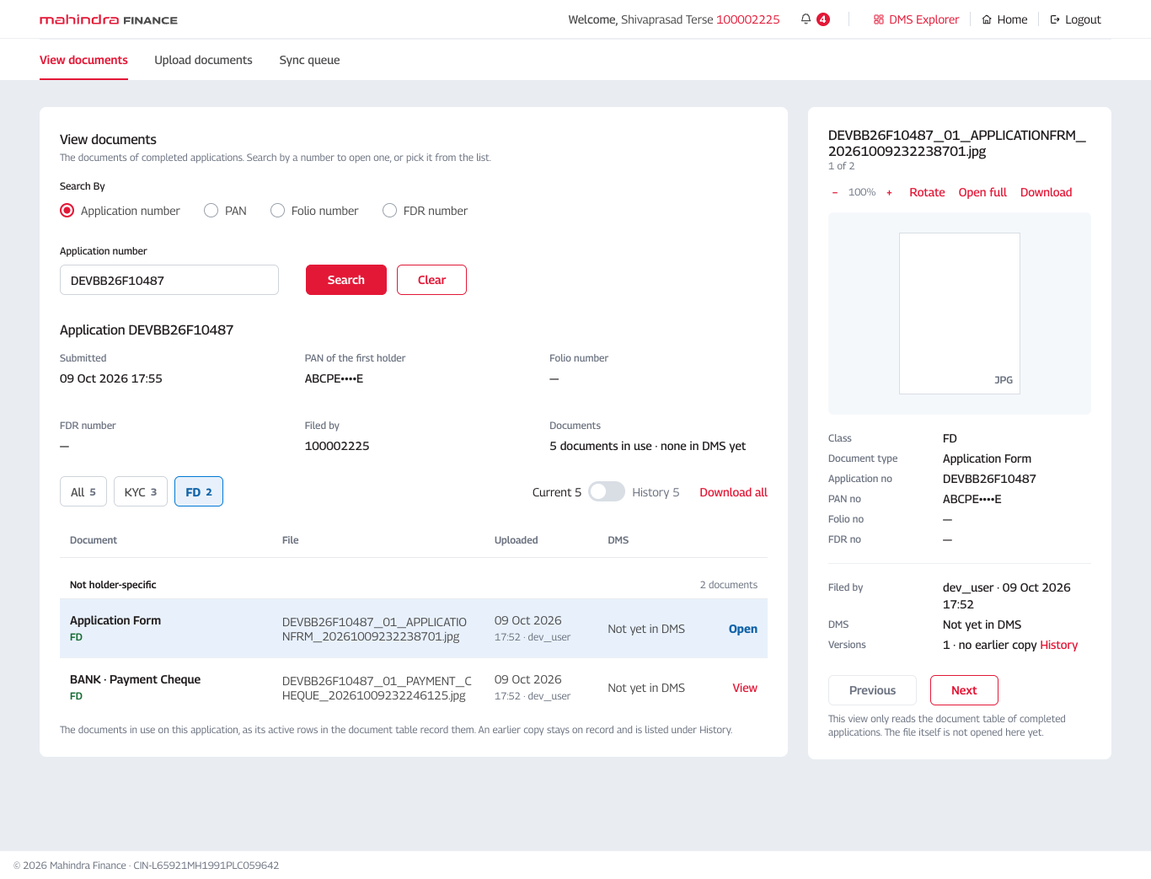
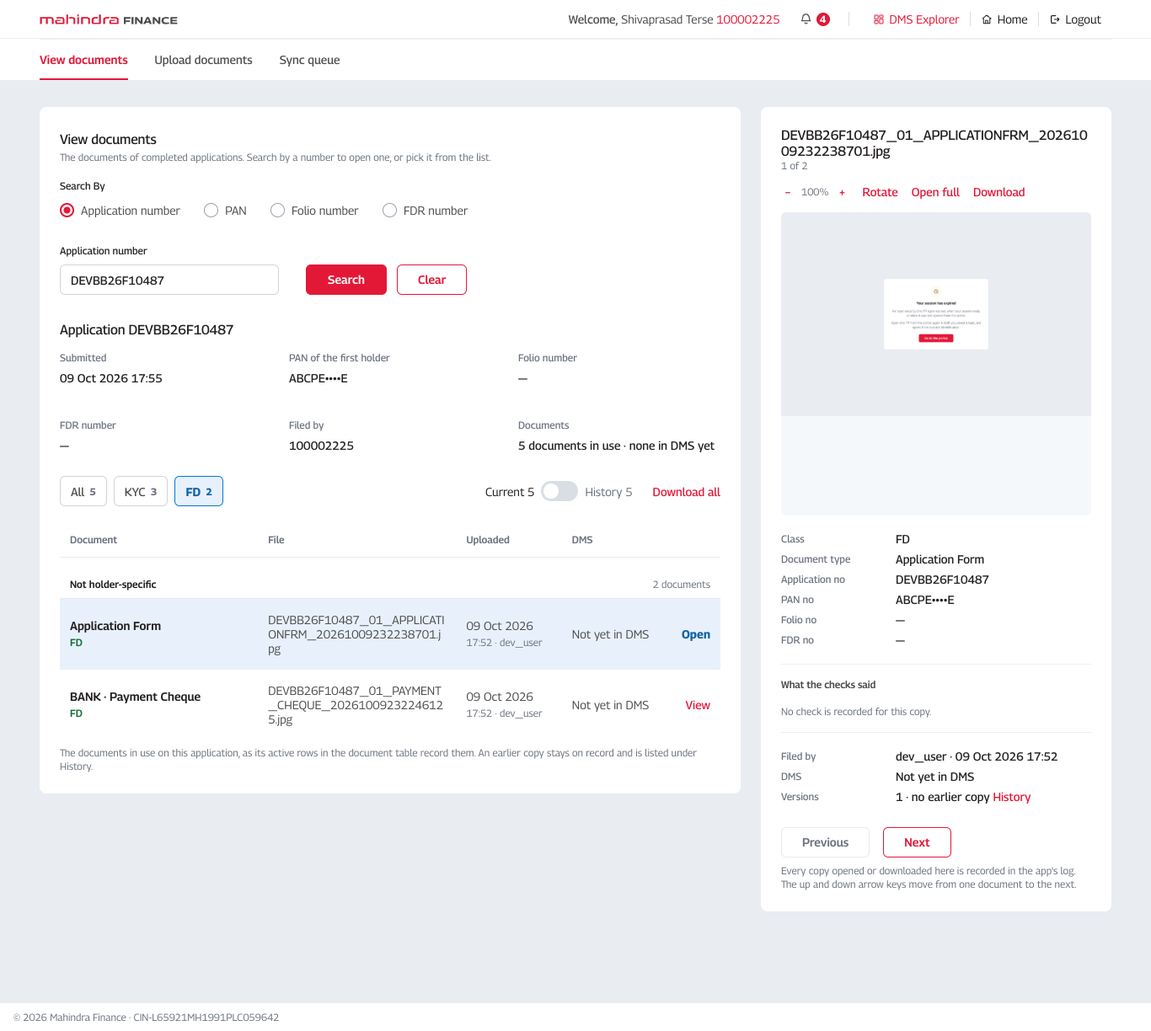
Screenshots: DMS Explorer with the document itself in the viewer
Steps 72 to 83 again. The viewer now shows the file, what the checks said
of it, and on a phone opens as a sheet over the list. The pages are taken
signed in, as they now open only with a session.

diff --git a/index.html b/index.html
@@ -61,7 +61,7 @@
   <div class="stage" id="stage"></div>
 </main>
 <script>
-var steps = [{"step": 1, "group": "Dashboard", "note": "Dashboard, with the incomplete applications", "desktop": "desktop/01-dashboard.png", "mobile": "mobile/01-dashboard.png"}, {"step": 2, "group": "Investor Identification", "note": "Investor Identification as it opens", "desktop": "desktop/02-search-empty.png", "mobile": "mobile/02-search-empty.png"}, {"step": 3, "group": "Investor Identification", "note": "PAN and date of birth not filled in properly", "desktop": "desktop/03-search-invalid.png", "mobile": "mobile/03-search-invalid.png"}, {"step": 4, "group": "Investor Identification", "note": "A PAN with no folio: new investor", "desktop": "desktop/04-search-new-investor.png", "mobile": "mobile/04-search-new-investor.png"}, {"step": 5, "group": "Investor Identification", "note": "A PAN on a folio: the record and the deposits held", "desktop": "desktop/05-search-folio-holder.png", "mobile": "mobile/05-search-folio-holder.png"}, {"step": 6, "group": "Upload Documents - fresh investor", "note": "Upload Documents as a new application opens", "desktop": "desktop/06-upload-opened.png", "mobile": "mobile/06-upload-opened.png"}, {"step": 7, "group": "Upload Documents - fresh investor", "note": "Proceed with nothing filed: what is missing", "desktop": "desktop/07-upload-proceed-nothing-filed.png", "mobile": "mobile/07-upload-proceed-nothing-filed.png"}, {"step": 8, "group": "Upload Documents - fresh investor", "note": "PAN copy filed: read by OCR and verified with NSDL", "desktop": "desktop/08-upload-pan-verified.png", "mobile": "mobile/08-upload-pan-verified.png"}, {"step": 9, "group": "Upload Documents - fresh investor", "note": "Proof of address filed: a passport, address read off it", "desktop": "desktop/09-upload-poa-passport.png", "mobile": "mobile/09-upload-poa-passport.png"}, {"step": 10, "group": "Upload Documents - fresh investor", "note": "Photograph filed", "desktop": "desktop/10-upload-photo.png", "mobile": "mobile/10-upload-photo.png"}, {"step": 11, "group": "Upload Documents - fresh investor", "note": "A physical application, as a new one starts: the signed application form filed", "desktop": "desktop/11-upload-application-form.png", "mobile": "mobile/11-upload-application-form.png"}, {"step": 12, "group": "Upload Documents - fresh investor", "note": "Payment mode Cheque, with the cheque copy", "desktop": "desktop/12-upload-payment-cheque.png", "mobile": "mobile/12-upload-payment-cheque.png"}, {"step": 13, "group": "Upload Documents - fresh investor", "note": "Sourcing chosen and the form number typed; the category is set by the app", "desktop": "desktop/13-upload-sourcing-and-category.png", "mobile": "mobile/13-upload-sourcing-and-category.png"}, {"step": 14, "group": "Upload Documents - fresh investor", "note": "Upload Documents with everything on it", "desktop": "desktop/14-upload-complete.png", "mobile": "mobile/14-upload-complete.png"}, {"step": 15, "group": "Upload Documents - cases", "note": "NSDL holds the PAN and date of birth under another name: the name is typed", "desktop": "desktop/15-upload-nsdl-name-differs.png", "mobile": "mobile/15-upload-nsdl-name-differs.png"}, {"step": 16, "group": "Upload Documents - cases", "note": "NSDL does not hold the PAN and date of birth: upload again", "desktop": "desktop/16-upload-nsdl-failed.png", "mobile": "mobile/16-upload-nsdl-failed.png"}, {"step": 17, "group": "Upload Documents - cases", "note": "NSDL not answering", "desktop": "desktop/17-upload-nsdl-not-answering.png", "mobile": "mobile/17-upload-nsdl-not-answering.png"}, {"step": 18, "group": "Upload Documents - cases", "note": "Aadhaar as proof of address: last 4 digits read, the first 8 are typed", "desktop": "desktop/18-upload-aadhaar-last-four.png", "mobile": "mobile/18-upload-aadhaar-last-four.png"}, {"step": 19, "group": "Upload Documents - cases", "note": "Aadhaar number completed: PAN-Aadhaar link checked", "desktop": "desktop/19-upload-aadhaar-number-entered.png", "mobile": "mobile/19-upload-aadhaar-number-entered.png"}, {"step": 20, "group": "Upload Documents - cases", "note": "Aadhaar masking failed: nothing is filed", "desktop": "desktop/20-upload-aadhaar-masking-failed.png", "mobile": "mobile/20-upload-aadhaar-masking-failed.png"}, {"step": 21, "group": "Upload Documents - cases", "note": "Fetch from CKYC: the question before it is fetched", "desktop": "desktop/21-upload-fetch-from-ckyc.png", "mobile": "mobile/21-upload-fetch-from-ckyc.png"}, {"step": 22, "group": "Folio holder", "note": "Upload Documents for a holder on a folio: documents on record are not asked again", "desktop": "desktop/22-upload-folio-holder.png", "mobile": "mobile/22-upload-folio-holder.png"}, {"step": 23, "group": "Folio holder", "note": "Investor Information for a holder on a folio: details from the record", "desktop": "desktop/23-investor-folio-holder.png", "mobile": "mobile/23-investor-folio-holder.png"}, {"step": 24, "group": "Investor Information", "note": "Investor Information as it opens for a new investor", "desktop": "desktop/24-investor-opened.png", "mobile": "mobile/24-investor-opened.png"}, {"step": 25, "group": "Investor Information", "note": "Proceed with nothing entered, the nominee question skipped: each field says what it needs", "desktop": "desktop/25-investor-proceed-nothing-entered.png", "mobile": "mobile/25-investor-proceed-nothing-entered.png"}, {"step": 26, "group": "Investor Information", "note": "Investor Information filled in", "desktop": "desktop/26-investor-filled.png", "mobile": "mobile/26-investor-filled.png"}, {"step": 27, "group": "Investor Information", "note": "Proceed with no nominee: the question before going on", "desktop": "desktop/27-investor-nominee-question.png", "mobile": "mobile/27-investor-nominee-question.png"}, {"step": 28, "group": "Investor Information", "note": "Investor Information with a joint holder on the application", "desktop": "desktop/28-investor-with-joint-holder.png", "mobile": "mobile/28-investor-with-joint-holder.png"}, {"step": 29, "group": "Bank Details & Payment", "note": "Bank Details & Payment as it opens (payment by cheque)", "desktop": "desktop/29-bank-opened.png", "mobile": "mobile/29-bank-opened.png"}, {"step": 30, "group": "Bank Details & Payment", "note": "Proceed with no bank chosen", "desktop": "desktop/30-bank-proceed-nothing-entered.png", "mobile": "mobile/30-bank-proceed-nothing-entered.png"}, {"step": 31, "group": "Bank Details & Payment", "note": "Bank search as it is typed", "desktop": "desktop/31-bank-search-as-typed.png", "mobile": "mobile/31-bank-search-as-typed.png"}, {"step": 32, "group": "Bank Details & Payment", "note": "Payment and repayment accounts and the cheque details filled in", "desktop": "desktop/32-bank-filled.png", "mobile": "mobile/32-bank-filled.png"}, {"step": 33, "group": "FD Configuration", "note": "FD Configuration as it opens", "desktop": "desktop/33-deposit-opened.png", "mobile": "mobile/33-deposit-opened.png"}, {"step": 34, "group": "FD Configuration", "note": "Proceed with no amount", "desktop": "desktop/34-deposit-proceed-no-amount.png", "mobile": "mobile/34-deposit-proceed-no-amount.png"}, {"step": 35, "group": "FD Configuration", "note": "An amount entered: the rate and the quote", "desktop": "desktop/35-deposit-quote.png", "mobile": "mobile/35-deposit-quote.png"}, {"step": 36, "group": "FD Configuration", "note": "Deposits with us pass 1 crore and income is up to 5 lakh: source of funds asked", "desktop": "desktop/36-deposit-source-of-funds-asked.png", "mobile": "mobile/36-deposit-source-of-funds-asked.png"}, {"step": 37, "group": "Review Summary", "note": "Review Summary: nothing missing", "desktop": "desktop/37-review-ready.png", "mobile": "mobile/37-review-ready.png"}, {"step": 38, "group": "Review Summary", "note": "Review Summary with things still missing, by step", "desktop": "desktop/38-review-things-missing-folio.png", "mobile": "mobile/38-review-things-missing-folio.png"}, {"step": 39, "group": "Review Summary", "note": "Review Summary with nothing missing", "desktop": "desktop/39-review-ready-to-submit.png", "mobile": "mobile/39-review-ready-to-submit.png"}, {"step": 40, "group": "Review Summary", "note": "Submit Application: Try later, or Submit & send link", "desktop": "desktop/40-review-submit-popup.png", "mobile": "mobile/40-review-submit-popup.png"}, {"step": 41, "group": "Review Summary", "note": "Application Submitted after Try later: no link sent yet", "desktop": "desktop/41-submitted-no-link-yet.png", "mobile": "mobile/41-submitted-no-link-yet.png"}, {"step": 42, "group": "Review Summary", "note": "Application Submitted with the payment link sent", "desktop": "desktop/42-submitted-link-sent.png", "mobile": "mobile/42-submitted-link-sent.png"}, {"step": 43, "group": "Renew FD", "note": "Renew FD opens Investor Identification, where the investor is searched (switched off in settings; shown with its switch on)", "desktop": "desktop/43-renew-search-opened.png", "mobile": "mobile/43-renew-search-opened.png"}, {"step": 44, "group": "Renew FD", "note": "The investor searched by folio number", "desktop": "desktop/44-renew-search-by-folio.png", "mobile": "mobile/44-renew-search-by-folio.png"}, {"step": 45, "group": "Renew FD", "note": "After the search: the investor's record, and under it their deposits, each with where it stands. Renew is on the one that is due", "desktop": "desktop/45-renew-deposits-listed.png", "mobile": "mobile/45-renew-deposits-listed.png"}, {"step": 46, "group": "Renew FD", "note": "The deposits, with the renewal notes opened", "desktop": "desktop/46-renew-notes-opened.png", "mobile": "mobile/46-renew-notes-opened.png"}, {"step": 47, "group": "Renew FD", "note": "Renew pressed: the renewal opens at Upload Documents, naming the deposit it renews. No payment: the maturing deposit pays for the new one", "desktop": "desktop/47-renew-upload-opened.png", "mobile": "mobile/47-renew-upload-opened.png"}, {"step": 48, "group": "Renew FD", "note": "Investor Information of the renewal: the holder from the folio record", "desktop": "desktop/48-renew-investor.png", "mobile": "mobile/48-renew-investor.png"}, {"step": 49, "group": "Renew FD", "note": "Bank Details of the renewal: only the repayment account, filled in from the deposit being renewed", "desktop": "desktop/49-renew-bank.png", "mobile": "mobile/49-renew-bank.png"}, {"step": 50, "group": "Renew FD", "note": "FD Configuration of the renewal: the amount is the maturity amount of the deposit, with Renewal for", "desktop": "desktop/50-renew-deposit.png", "mobile": "mobile/50-renew-deposit.png"}, {"step": 51, "group": "Renew FD", "note": "Review Summary of the renewal, with what is still missing", "desktop": "desktop/51-renew-review.png", "mobile": "mobile/51-renew-review.png"}, {"step": 52, "group": "Renew FD", "note": "Back on Investor Identification: the deposit now says Renewal in progress, with Continue and Cancel request", "desktop": "desktop/52-renew-in-progress.png", "mobile": "mobile/52-renew-in-progress.png"}, {"step": 53, "group": "Renew FD", "note": "Cancel request, once confirmed: the renewal is cancelled and the deposit is due for renewal again", "desktop": "desktop/53-renew-cancelled.png", "mobile": "mobile/53-renew-cancelled.png"}, {"step": 54, "group": "Lists", "note": "View Application: the list (switched off in settings; shown with its switch on)", "desktop": "desktop/54-view-application-list.png", "mobile": "mobile/54-view-application-list.png"}, {"step": 55, "group": "Lists", "note": "View Application: found by application number", "desktop": "desktop/55-view-application-by-number.png", "mobile": "mobile/55-view-application-by-number.png"}, {"step": 56, "group": "Lists", "note": "View Application: the details sheet", "desktop": "desktop/56-view-application-details.png", "mobile": "mobile/56-view-application-details.png"}, {"step": 57, "group": "Lists", "note": "PIS Generation - Axis (switched off in settings; shown with its switch on)", "desktop": "desktop/57-pay-in-slips.png", "mobile": "mobile/57-pay-in-slips.png"}, {"step": 58, "group": "Lists", "note": "Short URL (switched off in settings; shown with its switch on)", "desktop": "desktop/58-short-url.png", "mobile": "mobile/58-short-url.png"}, {"step": 59, "group": "Lists", "note": "Console Admin (switched off in settings; shown with its switch on)", "desktop": "desktop/59-console-admin.png", "mobile": "mobile/59-console-admin.png"}, {"step": 60, "group": "Other pages", "note": "Session expired", "desktop": "desktop/60-session-expired.png", "mobile": "mobile/60-session-expired.png"}, {"step": 61, "group": "Other pages", "note": "Not authorised", "desktop": "desktop/61-unauthorized.png", "mobile": "mobile/61-unauthorized.png"}, {"step": 62, "group": "Other pages", "note": "Too many requests", "desktop": "desktop/62-too-many-requests.png", "mobile": "mobile/62-too-many-requests.png"}, {"step": 63, "group": "Other pages", "note": "Something went wrong", "desktop": "desktop/63-error.png", "mobile": "mobile/63-error.png"}, {"step": 64, "group": "Other pages", "note": "Page expired", "desktop": "desktop/64-page-expired.png", "mobile": "mobile/64-page-expired.png"}, {"step": 65, "group": "OVD Explorer", "note": "OVD Explorer as it opens", "desktop": "desktop/65-ovd-empty.png", "mobile": "mobile/65-ovd-empty.png"}, {"step": 66, "group": "OVD Explorer", "note": "Looked up by application number: its officially valid documents", "desktop": "desktop/66-ovd-application.png", "mobile": "mobile/66-ovd-application.png"}, {"step": 67, "group": "OVD Explorer", "note": "Another document opened in the details panel", "desktop": "desktop/67-ovd-second-document.png", "mobile": "mobile/67-ovd-second-document.png"}, {"step": 68, "group": "OVD Explorer", "note": "Filtered to the verified documents", "desktop": "desktop/68-ovd-verified-only.png", "mobile": "mobile/68-ovd-verified-only.png"}, {"step": 69, "group": "OVD Explorer", "note": "Looked up by PAN: every completed application of that holder", "desktop": "desktop/69-ovd-pan.png", "mobile": "mobile/69-ovd-pan.png"}, {"step": 70, "group": "OVD Explorer", "note": "Looked up by folio number", "desktop": "desktop/70-ovd-folio.png", "mobile": "mobile/70-ovd-folio.png"}, {"step": 71, "group": "OVD Explorer", "note": "A draft application is not shown: only completed ones are", "desktop": "desktop/71-ovd-draft-not-found.png", "mobile": "mobile/71-ovd-draft-not-found.png"}, {"step": 72, "group": "DMS Explorer", "note": "View documents: the completed applications (status APR), newest first, eight to a page", "desktop": "desktop/72-dms-completed-applications.png", "mobile": "mobile/72-dms-completed-applications.png"}, {"step": 73, "group": "DMS Explorer", "note": "An application opened: the documents in use on it", "desktop": "desktop/73-dms-application-documents.png", "mobile": "mobile/73-dms-application-documents.png"}, {"step": 74, "group": "DMS Explorer", "note": "Another document opened in the viewer", "desktop": "desktop/74-dms-document-viewed.png", "mobile": "mobile/74-dms-document-viewed.png"}, {"step": 75, "group": "DMS Explorer", "note": "Filtered to the FD class: the application's own documents", "desktop": "desktop/75-dms-class-filter.png", "mobile": "mobile/75-dms-class-filter.png"}, {"step": 76, "group": "DMS Explorer", "note": "History: every copy filed on the application, newest first", "desktop": "desktop/76-dms-history.png", "mobile": "mobile/76-dms-history.png"}, {"step": 77, "group": "DMS Explorer", "note": "Looked up by PAN: every completed application it belongs to", "desktop": "desktop/77-dms-lookup-by-pan.png", "mobile": "mobile/77-dms-lookup-by-pan.png"}, {"step": 78, "group": "DMS Explorer", "note": "Looked up by FDR number: a completed application with no documents recorded", "desktop": "desktop/78-dms-no-documents.png", "mobile": "mobile/78-dms-no-documents.png"}, {"step": 79, "group": "DMS Explorer", "note": "A draft looked up by its number: only a completed application is shown", "desktop": "desktop/79-dms-not-completed.png", "mobile": "mobile/79-dms-not-completed.png"}, {"step": 80, "group": "DMS Explorer", "note": "Upload documents as it opens (prototype)", "desktop": "desktop/80-dms-upload-opened.png", "mobile": "mobile/80-dms-upload-opened.png"}, {"step": 81, "group": "DMS Explorer", "note": "Upload pressed with nothing entered", "desktop": "desktop/81-dms-upload-nothing-entered.png", "mobile": "mobile/81-dms-upload-nothing-entered.png"}, {"step": 82, "group": "DMS Explorer", "note": "Upload documents filled in: the name the file will be filed as", "desktop": "desktop/82-dms-upload-filled.png", "mobile": "mobile/82-dms-upload-filled.png"}, {"step": 83, "group": "DMS Explorer", "note": "Uploaded (prototype: nothing is sent or stored)", "desktop": "desktop/83-dms-upload-done.png", "mobile": "mobile/83-dms-upload-done.png"}];
+var steps = [{"step": 1, "group": "Dashboard", "note": "Dashboard, with the incomplete applications", "desktop": "desktop/01-dashboard.png", "mobile": "mobile/01-dashboard.png"}, {"step": 2, "group": "Investor Identification", "note": "Investor Identification as it opens", "desktop": "desktop/02-search-empty.png", "mobile": "mobile/02-search-empty.png"}, {"step": 3, "group": "Investor Identification", "note": "PAN and date of birth not filled in properly", "desktop": "desktop/03-search-invalid.png", "mobile": "mobile/03-search-invalid.png"}, {"step": 4, "group": "Investor Identification", "note": "A PAN with no folio: new investor", "desktop": "desktop/04-search-new-investor.png", "mobile": "mobile/04-search-new-investor.png"}, {"step": 5, "group": "Investor Identification", "note": "A PAN on a folio: the record and the deposits held", "desktop": "desktop/05-search-folio-holder.png", "mobile": "mobile/05-search-folio-holder.png"}, {"step": 6, "group": "Upload Documents - fresh investor", "note": "Upload Documents as a new application opens", "desktop": "desktop/06-upload-opened.png", "mobile": "mobile/06-upload-opened.png"}, {"step": 7, "group": "Upload Documents - fresh investor", "note": "Proceed with nothing filed: what is missing", "desktop": "desktop/07-upload-proceed-nothing-filed.png", "mobile": "mobile/07-upload-proceed-nothing-filed.png"}, {"step": 8, "group": "Upload Documents - fresh investor", "note": "PAN copy filed: read by OCR and verified with NSDL", "desktop": "desktop/08-upload-pan-verified.png", "mobile": "mobile/08-upload-pan-verified.png"}, {"step": 9, "group": "Upload Documents - fresh investor", "note": "Proof of address filed: a passport, address read off it", "desktop": "desktop/09-upload-poa-passport.png", "mobile": "mobile/09-upload-poa-passport.png"}, {"step": 10, "group": "Upload Documents - fresh investor", "note": "Photograph filed", "desktop": "desktop/10-upload-photo.png", "mobile": "mobile/10-upload-photo.png"}, {"step": 11, "group": "Upload Documents - fresh investor", "note": "A physical application, as a new one starts: the signed application form filed", "desktop": "desktop/11-upload-application-form.png", "mobile": "mobile/11-upload-application-form.png"}, {"step": 12, "group": "Upload Documents - fresh investor", "note": "Payment mode Cheque, with the cheque copy", "desktop": "desktop/12-upload-payment-cheque.png", "mobile": "mobile/12-upload-payment-cheque.png"}, {"step": 13, "group": "Upload Documents - fresh investor", "note": "Sourcing chosen and the form number typed; the category is set by the app", "desktop": "desktop/13-upload-sourcing-and-category.png", "mobile": "mobile/13-upload-sourcing-and-category.png"}, {"step": 14, "group": "Upload Documents - fresh investor", "note": "Upload Documents with everything on it", "desktop": "desktop/14-upload-complete.png", "mobile": "mobile/14-upload-complete.png"}, {"step": 15, "group": "Upload Documents - cases", "note": "NSDL holds the PAN and date of birth under another name: the name is typed", "desktop": "desktop/15-upload-nsdl-name-differs.png", "mobile": "mobile/15-upload-nsdl-name-differs.png"}, {"step": 16, "group": "Upload Documents - cases", "note": "NSDL does not hold the PAN and date of birth: upload again", "desktop": "desktop/16-upload-nsdl-failed.png", "mobile": "mobile/16-upload-nsdl-failed.png"}, {"step": 17, "group": "Upload Documents - cases", "note": "NSDL not answering", "desktop": "desktop/17-upload-nsdl-not-answering.png", "mobile": "mobile/17-upload-nsdl-not-answering.png"}, {"step": 18, "group": "Upload Documents - cases", "note": "Aadhaar as proof of address: last 4 digits read, the first 8 are typed", "desktop": "desktop/18-upload-aadhaar-last-four.png", "mobile": "mobile/18-upload-aadhaar-last-four.png"}, {"step": 19, "group": "Upload Documents - cases", "note": "Aadhaar number completed: PAN-Aadhaar link checked", "desktop": "desktop/19-upload-aadhaar-number-entered.png", "mobile": "mobile/19-upload-aadhaar-number-entered.png"}, {"step": 20, "group": "Upload Documents - cases", "note": "Aadhaar masking failed: nothing is filed", "desktop": "desktop/20-upload-aadhaar-masking-failed.png", "mobile": "mobile/20-upload-aadhaar-masking-failed.png"}, {"step": 21, "group": "Upload Documents - cases", "note": "Fetch from CKYC: the question before it is fetched", "desktop": "desktop/21-upload-fetch-from-ckyc.png", "mobile": "mobile/21-upload-fetch-from-ckyc.png"}, {"step": 22, "group": "Folio holder", "note": "Upload Documents for a holder on a folio: documents on record are not asked again", "desktop": "desktop/22-upload-folio-holder.png", "mobile": "mobile/22-upload-folio-holder.png"}, {"step": 23, "group": "Folio holder", "note": "Investor Information for a holder on a folio: details from the record", "desktop": "desktop/23-investor-folio-holder.png", "mobile": "mobile/23-investor-folio-holder.png"}, {"step": 24, "group": "Investor Information", "note": "Investor Information as it opens for a new investor", "desktop": "desktop/24-investor-opened.png", "mobile": "mobile/24-investor-opened.png"}, {"step": 25, "group": "Investor Information", "note": "Proceed with nothing entered, the nominee question skipped: each field says what it needs", "desktop": "desktop/25-investor-proceed-nothing-entered.png", "mobile": "mobile/25-investor-proceed-nothing-entered.png"}, {"step": 26, "group": "Investor Information", "note": "Investor Information filled in", "desktop": "desktop/26-investor-filled.png", "mobile": "mobile/26-investor-filled.png"}, {"step": 27, "group": "Investor Information", "note": "Proceed with no nominee: the question before going on", "desktop": "desktop/27-investor-nominee-question.png", "mobile": "mobile/27-investor-nominee-question.png"}, {"step": 28, "group": "Investor Information", "note": "Investor Information with a joint holder on the application", "desktop": "desktop/28-investor-with-joint-holder.png", "mobile": "mobile/28-investor-with-joint-holder.png"}, {"step": 29, "group": "Bank Details & Payment", "note": "Bank Details & Payment as it opens (payment by cheque)", "desktop": "desktop/29-bank-opened.png", "mobile": "mobile/29-bank-opened.png"}, {"step": 30, "group": "Bank Details & Payment", "note": "Proceed with no bank chosen", "desktop": "desktop/30-bank-proceed-nothing-entered.png", "mobile": "mobile/30-bank-proceed-nothing-entered.png"}, {"step": 31, "group": "Bank Details & Payment", "note": "Bank search as it is typed", "desktop": "desktop/31-bank-search-as-typed.png", "mobile": "mobile/31-bank-search-as-typed.png"}, {"step": 32, "group": "Bank Details & Payment", "note": "Payment and repayment accounts and the cheque details filled in", "desktop": "desktop/32-bank-filled.png", "mobile": "mobile/32-bank-filled.png"}, {"step": 33, "group": "FD Configuration", "note": "FD Configuration as it opens", "desktop": "desktop/33-deposit-opened.png", "mobile": "mobile/33-deposit-opened.png"}, {"step": 34, "group": "FD Configuration", "note": "Proceed with no amount", "desktop": "desktop/34-deposit-proceed-no-amount.png", "mobile": "mobile/34-deposit-proceed-no-amount.png"}, {"step": 35, "group": "FD Configuration", "note": "An amount entered: the rate and the quote", "desktop": "desktop/35-deposit-quote.png", "mobile": "mobile/35-deposit-quote.png"}, {"step": 36, "group": "FD Configuration", "note": "Deposits with us pass 1 crore and income is up to 5 lakh: source of funds asked", "desktop": "desktop/36-deposit-source-of-funds-asked.png", "mobile": "mobile/36-deposit-source-of-funds-asked.png"}, {"step": 37, "group": "Review Summary", "note": "Review Summary: nothing missing", "desktop": "desktop/37-review-ready.png", "mobile": "mobile/37-review-ready.png"}, {"step": 38, "group": "Review Summary", "note": "Review Summary with things still missing, by step", "desktop": "desktop/38-review-things-missing-folio.png", "mobile": "mobile/38-review-things-missing-folio.png"}, {"step": 39, "group": "Review Summary", "note": "Review Summary with nothing missing", "desktop": "desktop/39-review-ready-to-submit.png", "mobile": "mobile/39-review-ready-to-submit.png"}, {"step": 40, "group": "Review Summary", "note": "Submit Application: Try later, or Submit & send link", "desktop": "desktop/40-review-submit-popup.png", "mobile": "mobile/40-review-submit-popup.png"}, {"step": 41, "group": "Review Summary", "note": "Application Submitted after Try later: no link sent yet", "desktop": "desktop/41-submitted-no-link-yet.png", "mobile": "mobile/41-submitted-no-link-yet.png"}, {"step": 42, "group": "Review Summary", "note": "Application Submitted with the payment link sent", "desktop": "desktop/42-submitted-link-sent.png", "mobile": "mobile/42-submitted-link-sent.png"}, {"step": 43, "group": "Renew FD", "note": "Renew FD opens Investor Identification, where the investor is searched (switched off in settings; shown with its switch on)", "desktop": "desktop/43-renew-search-opened.png", "mobile": "mobile/43-renew-search-opened.png"}, {"step": 44, "group": "Renew FD", "note": "The investor searched by folio number", "desktop": "desktop/44-renew-search-by-folio.png", "mobile": "mobile/44-renew-search-by-folio.png"}, {"step": 45, "group": "Renew FD", "note": "After the search: the investor's record, and under it their deposits, each with where it stands. Renew is on the one that is due", "desktop": "desktop/45-renew-deposits-listed.png", "mobile": "mobile/45-renew-deposits-listed.png"}, {"step": 46, "group": "Renew FD", "note": "The deposits, with the renewal notes opened", "desktop": "desktop/46-renew-notes-opened.png", "mobile": "mobile/46-renew-notes-opened.png"}, {"step": 47, "group": "Renew FD", "note": "Renew pressed: the renewal opens at Upload Documents, naming the deposit it renews. No payment: the maturing deposit pays for the new one", "desktop": "desktop/47-renew-upload-opened.png", "mobile": "mobile/47-renew-upload-opened.png"}, {"step": 48, "group": "Renew FD", "note": "Investor Information of the renewal: the holder from the folio record", "desktop": "desktop/48-renew-investor.png", "mobile": "mobile/48-renew-investor.png"}, {"step": 49, "group": "Renew FD", "note": "Bank Details of the renewal: only the repayment account, filled in from the deposit being renewed", "desktop": "desktop/49-renew-bank.png", "mobile": "mobile/49-renew-bank.png"}, {"step": 50, "group": "Renew FD", "note": "FD Configuration of the renewal: the amount is the maturity amount of the deposit, with Renewal for", "desktop": "desktop/50-renew-deposit.png", "mobile": "mobile/50-renew-deposit.png"}, {"step": 51, "group": "Renew FD", "note": "Review Summary of the renewal, with what is still missing", "desktop": "desktop/51-renew-review.png", "mobile": "mobile/51-renew-review.png"}, {"step": 52, "group": "Renew FD", "note": "Back on Investor Identification: the deposit now says Renewal in progress, with Continue and Cancel request", "desktop": "desktop/52-renew-in-progress.png", "mobile": "mobile/52-renew-in-progress.png"}, {"step": 53, "group": "Renew FD", "note": "Cancel request, once confirmed: the renewal is cancelled and the deposit is due for renewal again", "desktop": "desktop/53-renew-cancelled.png", "mobile": "mobile/53-renew-cancelled.png"}, {"step": 54, "group": "Lists", "note": "View Application: the list (switched off in settings; shown with its switch on)", "desktop": "desktop/54-view-application-list.png", "mobile": "mobile/54-view-application-list.png"}, {"step": 55, "group": "Lists", "note": "View Application: found by application number", "desktop": "desktop/55-view-application-by-number.png", "mobile": "mobile/55-view-application-by-number.png"}, {"step": 56, "group": "Lists", "note": "View Application: the details sheet", "desktop": "desktop/56-view-application-details.png", "mobile": "mobile/56-view-application-details.png"}, {"step": 57, "group": "Lists", "note": "PIS Generation - Axis (switched off in settings; shown with its switch on)", "desktop": "desktop/57-pay-in-slips.png", "mobile": "mobile/57-pay-in-slips.png"}, {"step": 58, "group": "Lists", "note": "Short URL (switched off in settings; shown with its switch on)", "desktop": "desktop/58-short-url.png", "mobile": "mobile/58-short-url.png"}, {"step": 59, "group": "Lists", "note": "Console Admin (switched off in settings; shown with its switch on)", "desktop": "desktop/59-console-admin.png", "mobile": "mobile/59-console-admin.png"}, {"step": 60, "group": "Other pages", "note": "Session expired", "desktop": "desktop/60-session-expired.png", "mobile": "mobile/60-session-expired.png"}, {"step": 61, "group": "Other pages", "note": "Not authorised", "desktop": "desktop/61-unauthorized.png", "mobile": "mobile/61-unauthorized.png"}, {"step": 62, "group": "Other pages", "note": "Too many requests", "desktop": "desktop/62-too-many-requests.png", "mobile": "mobile/62-too-many-requests.png"}, {"step": 63, "group": "Other pages", "note": "Something went wrong", "desktop": "desktop/63-error.png", "mobile": "mobile/63-error.png"}, {"step": 64, "group": "Other pages", "note": "Page expired", "desktop": "desktop/64-page-expired.png", "mobile": "mobile/64-page-expired.png"}, {"step": 65, "group": "OVD Explorer", "note": "OVD Explorer as it opens", "desktop": "desktop/65-ovd-empty.png", "mobile": "mobile/65-ovd-empty.png"}, {"step": 66, "group": "OVD Explorer", "note": "Looked up by application number: its officially valid documents", "desktop": "desktop/66-ovd-application.png", "mobile": "mobile/66-ovd-application.png"}, {"step": 67, "group": "OVD Explorer", "note": "Another document opened in the details panel", "desktop": "desktop/67-ovd-second-document.png", "mobile": "mobile/67-ovd-second-document.png"}, {"step": 68, "group": "OVD Explorer", "note": "Filtered to the verified documents", "desktop": "desktop/68-ovd-verified-only.png", "mobile": "mobile/68-ovd-verified-only.png"}, {"step": 69, "group": "OVD Explorer", "note": "Looked up by PAN: every completed application of that holder", "desktop": "desktop/69-ovd-pan.png", "mobile": "mobile/69-ovd-pan.png"}, {"step": 70, "group": "OVD Explorer", "note": "Looked up by folio number", "desktop": "desktop/70-ovd-folio.png", "mobile": "mobile/70-ovd-folio.png"}, {"step": 71, "group": "OVD Explorer", "note": "A draft application is not shown: only completed ones are", "desktop": "desktop/71-ovd-draft-not-found.png", "mobile": "mobile/71-ovd-draft-not-found.png"}, {"step": 72, "group": "DMS Explorer", "note": "View documents: the completed applications (status APR), newest first, eight to a page", "desktop": "desktop/72-dms-completed-applications.png", "mobile": "mobile/72-dms-completed-applications.png"}, {"step": 73, "group": "DMS Explorer", "note": "An application opened: the documents in use on it", "desktop": "desktop/73-dms-application-documents.png", "mobile": "mobile/73-dms-application-documents.png"}, {"step": 74, "group": "DMS Explorer", "note": "Another document opened: the file itself, its details and what the checks said", "desktop": "desktop/74-dms-document-viewed.png", "mobile": "mobile/74-dms-document-viewed.png"}, {"step": 75, "group": "DMS Explorer", "note": "Filtered to the FD class: the application's own documents", "desktop": "desktop/75-dms-class-filter.png", "mobile": "mobile/75-dms-class-filter.png"}, {"step": 76, "group": "DMS Explorer", "note": "History: every copy filed on the application, newest first", "desktop": "desktop/76-dms-history.png", "mobile": "mobile/76-dms-history.png"}, {"step": 77, "group": "DMS Explorer", "note": "Looked up by PAN: every completed application it belongs to", "desktop": "desktop/77-dms-lookup-by-pan.png", "mobile": "mobile/77-dms-lookup-by-pan.png"}, {"step": 78, "group": "DMS Explorer", "note": "Looked up by FDR number: a completed application with no documents recorded", "desktop": "desktop/78-dms-no-documents.png", "mobile": "mobile/78-dms-no-documents.png"}, {"step": 79, "group": "DMS Explorer", "note": "A draft looked up by its number: only a completed application is shown", "desktop": "desktop/79-dms-not-completed.png", "mobile": "mobile/79-dms-not-completed.png"}, {"step": 80, "group": "DMS Explorer", "note": "Upload documents as it opens (prototype)", "desktop": "desktop/80-dms-upload-opened.png", "mobile": "mobile/80-dms-upload-opened.png"}, {"step": 81, "group": "DMS Explorer", "note": "Upload pressed with nothing entered", "desktop": "desktop/81-dms-upload-nothing-entered.png", "mobile": "mobile/81-dms-upload-nothing-entered.png"}, {"step": 82, "group": "DMS Explorer", "note": "Upload documents filled in: the name the file will be filed as", "desktop": "desktop/82-dms-upload-filled.png", "mobile": "mobile/82-dms-upload-filled.png"}, {"step": 83, "group": "DMS Explorer", "note": "Uploaded (prototype: nothing is sent or stored)", "desktop": "desktop/83-dms-upload-done.png", "mobile": "mobile/83-dms-upload-done.png"}];
 var at = 0, view = 'desktop';
 var list = document.getElementById('list'), stage = document.getElementById('stage');
 var buttons = [];
